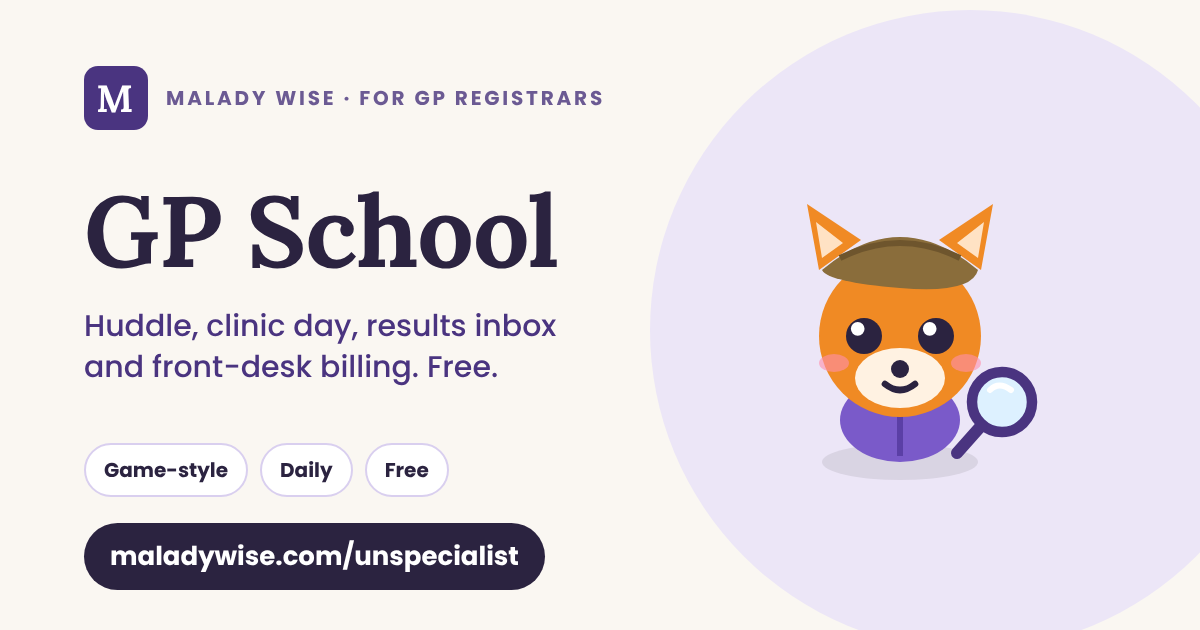
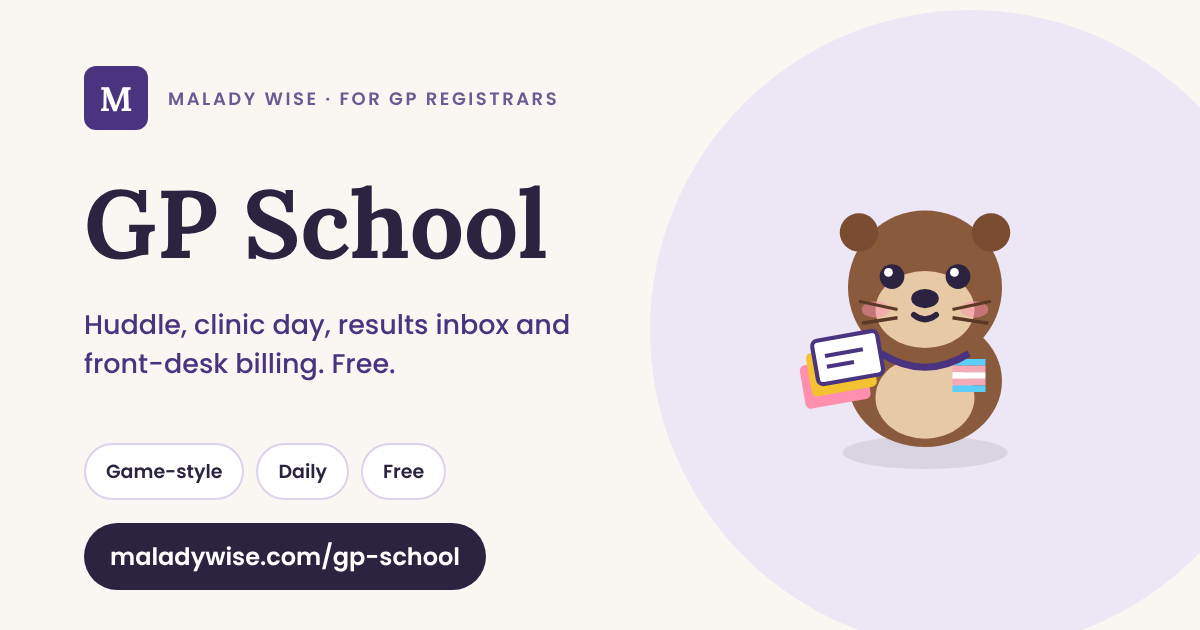
GP School share card: /gp-school address and Saga mascot
Claude-Session: https://claude.ai/code/session_01CBByq29dY2cNCTmjZTgF1V

diff --git a/gp-school/index.html b/gp-school/index.html
@@ -21,11 +21,11 @@
 <meta property="og:title" content="GP School: Free, Game-Style GP Training | Malady Wise">
 <meta property="og:url" content="https://maladywise.com/gp-school/">
 <meta property="og:description" content="GP School: free, game-style GP training. Huddle, clinic, inbox. Every day.">
-<meta property="og:image" content="https://maladywise.com/assets/og/gpschool.png?v=1">
+<meta property="og:image" content="https://maladywise.com/assets/og/gpschool.png?v=2">
 <meta property="og:image:width" content="1200">
 <meta property="og:image:height" content="630">
 <meta name="twitter:card" content="summary_large_image">
-<meta name="twitter:image" content="https://maladywise.com/assets/og/gpschool.png?v=1">
+<meta name="twitter:image" content="https://maladywise.com/assets/og/gpschool.png?v=2">
 <link rel="preload" href="/assets/fonts/poppins-latin-400-normal.woff2" as="font" type="font/woff2" crossorigin>
 <script>try{var r=document.documentElement,t=localStorage.getItem("mw-theme");r.setAttribute("data-pre","");try{t=JSON.parse(t)}catch(e){}r.setAttribute("data-theme",t==="dark"||(t!=="light"&&matchMedia("(prefers-color-scheme: dark)").matches)?"dark":"light")}catch(e){}</script>
 <link rel="stylesheet" href="/assets/shell.css?v=285">
@@ -34,7 +34,7 @@
 <script defer src="/assets/site.js?v=99"></script>
 <script defer src="/assets/shell.js?v=371"></script>
 <script type="application/ld+json" id="mw-breadcrumb-ld">{"@context":"https://schema.org","@type":"BreadcrumbList","itemListElement":[{"@type":"ListItem","position":1,"name":"Malady Wise","item":"https://maladywise.com/"},{"@type":"ListItem","position":2,"name":"GP School","item":"https://maladywise.com/gp-school/"}]}</script>
-<script type="application/ld+json" id="mw-share-ld">{"@context": "https://schema.org", "@type": "WebPage", "@id": "https://maladywise.com/gp-school/#webpage", "url": "https://maladywise.com/gp-school/", "name": "GP School: Free, Game-Style GP Training | Malady Wise", "image": {"@type": "ImageObject", "url": "https://maladywise.com/assets/og/gpschool.png?v=1", "width": 1200, "height": 630}, "primaryImageOfPage": {"@type": "ImageObject", "url": "https://maladywise.com/assets/og/gpschool.png?v=1", "width": 1200, "height": 630}}</script>
+<script type="application/ld+json" id="mw-share-ld">{"@context": "https://schema.org", "@type": "WebPage", "@id": "https://maladywise.com/gp-school/#webpage", "url": "https://maladywise.com/gp-school/", "name": "GP School: Free, Game-Style GP Training | Malady Wise", "image": {"@type": "ImageObject", "url": "https://maladywise.com/assets/og/gpschool.png?v=2", "width": 1200, "height": 630}, "primaryImageOfPage": {"@type": "ImageObject", "url": "https://maladywise.com/assets/og/gpschool.png?v=2", "width": 1200, "height": 630}}</script>
 </head>
 <body>
 <main class="wrap us-page">
@@ -44,7 +44,7 @@
   <noscript><p>GP School needs JavaScript to run.</p></noscript>
   <p class="us-beta"><b>Beta:</b> content under GP review. Education for health professionals, not patient advice.</p>
 <!-- share-card -->
-<aside class="mw-sharecard" aria-label="Share this page"><p class="mw-sc-h">Share this page</p><img src="/assets/og/gpschool.png?v=1" width="1200" height="630" loading="lazy" decoding="async" alt="Share card: GP School"><p class="mw-sc-row"><button type="button" class="mw-sc-btn" data-mw-share>Share link</button></p></aside>
+<aside class="mw-sharecard" aria-label="Share this page"><p class="mw-sc-h">Share this page</p><img src="/assets/og/gpschool.png?v=2" width="1200" height="630" loading="lazy" decoding="async" alt="Share card: GP School"><p class="mw-sc-row"><button type="button" class="mw-sc-btn" data-mw-share>Share link</button></p></aside>
 <!-- /share-card -->
   <footer class="site">
 <!-- static-nav --><nav class="static-nav" aria-label="Site sections"><a href="/medical-games/">Puzzles</a> <a href="/conditions/" class="sn-med">Conditions</a> <a href="/medicines/" class="sn-med">Medicines</a> <a href="/blood-tests/" class="sn-med">Blood tests</a> <a href="/exercises/" class="sn-med">Exercises</a> <a href="/tools/" class="sn-med">Tools</a> <a href="/quizzes/">Quizzes</a> <a href="/specialists/" class="sn-med">Specialists</a> <a href="/days/">Health days</a></nav><!-- /static-nav -->
